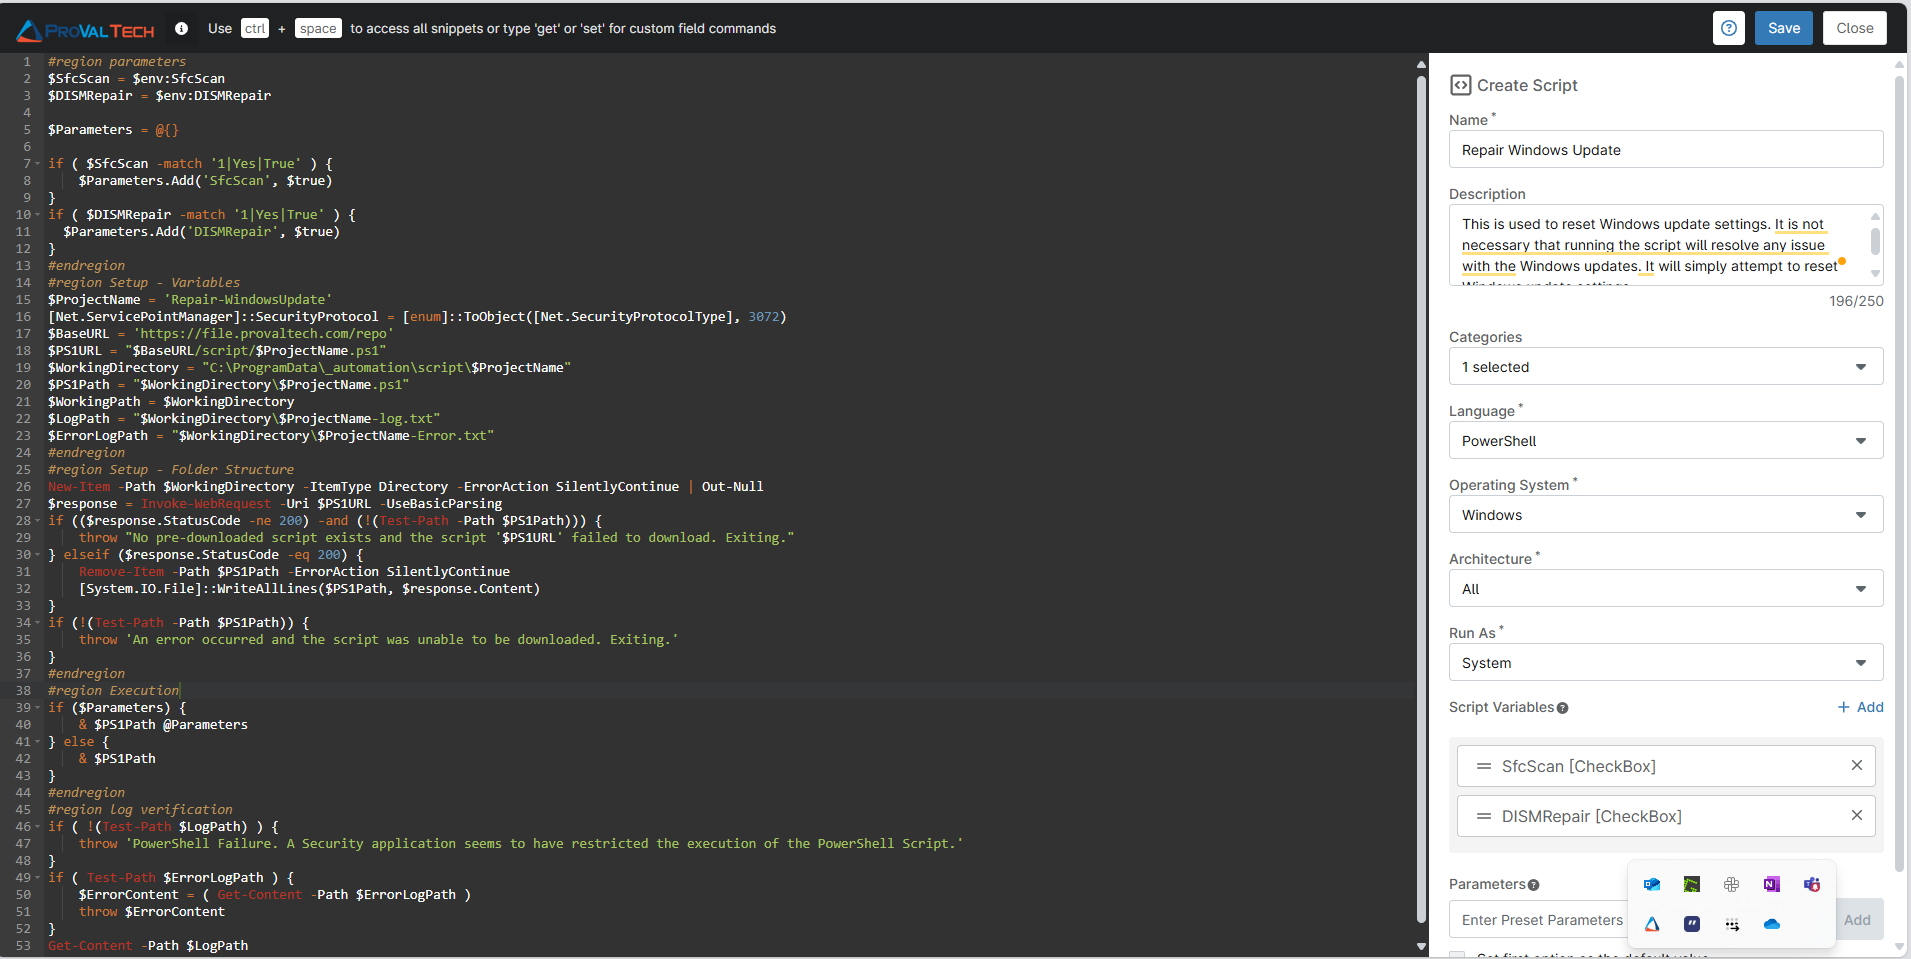
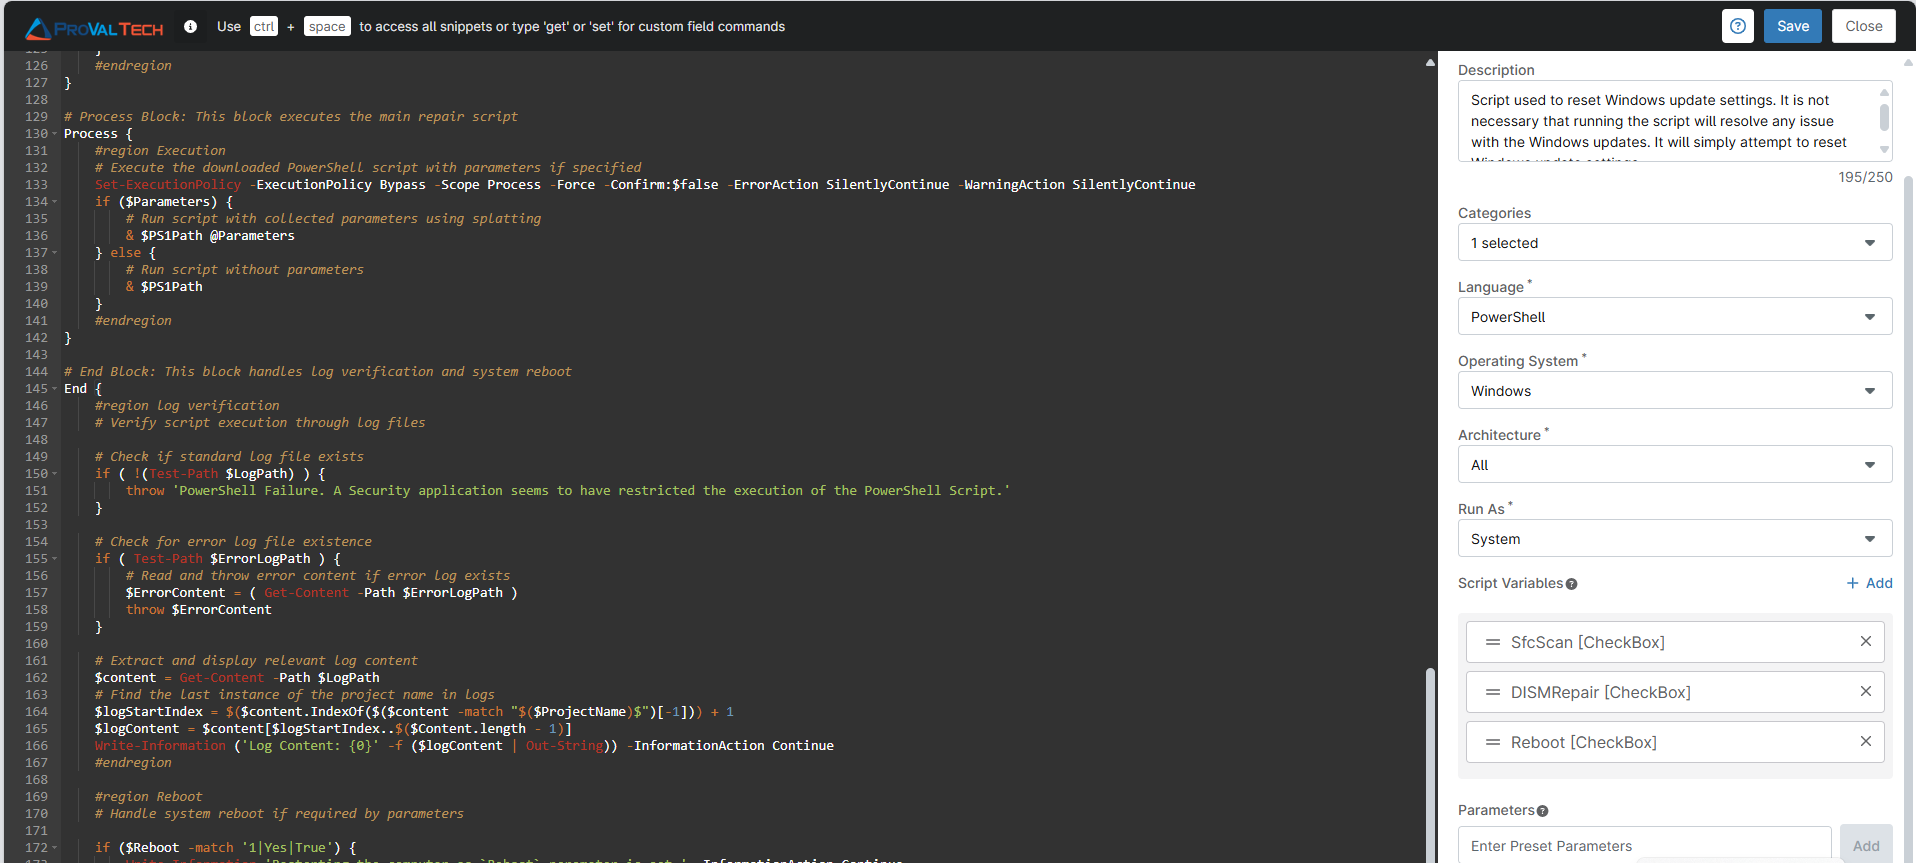
updation as per QA

Changed region(s): [[0.0, 0.0, 1.0, 1.0], [0.247, 0.3013, 0.3705, 0.3314]]

diff --git a/docs/ninjaone/automations/Repair-Windows-Update.md b/docs/ninjaone/automations/Repair-Windows-Update.md
@@ -26,6 +26,7 @@ This is used to reset Windows update settings. It is not necessary that running 
 |------------|---------|-----------------|----------|---------|----------|---------------------------------------------------------------|
 | SfcScan    | -       | -               | False    | False   | Checkbox | Toggles an optional SFC scan as a repair option for Windows updates |
 | DISMRepair | -       | -               | False    | False   | Checkbox | Toggles an optional DISM repair                               |
+| Reboot | -       | -               | False    | False   | Checkbox | If enabled, the script will forcefully restart the computer after completing the repair operations.                               |
 
 ## Automation Setup/Import
 
@@ -133,6 +134,12 @@ Add another Script variable and Select the `Checkbox` option. `Add Checkbox Vari
 **Mandatory:** `<Leave it Unchecked>`  
 ![Checbox](../../../static/img/NinjaOne-Repair-Windows-Update/image6.png)
 
+Add another Script variable and Select the `Checkbox` option. `Add Checkbox Variable` window will open. In the box, fill in the following details and select `Add` to create the script variable.
+
+**Name:** `Reboot`  
+**Description:** `If enabled, the script will forcefully restart the computer after completing the repair operations.`  
+**Mandatory:** `<Leave it Unchecked>`  
+![Checbox](../../../static/img/NinjaOne-Repair-Windows-Update/image8.png)
 
 ## Saving the Automation
 
